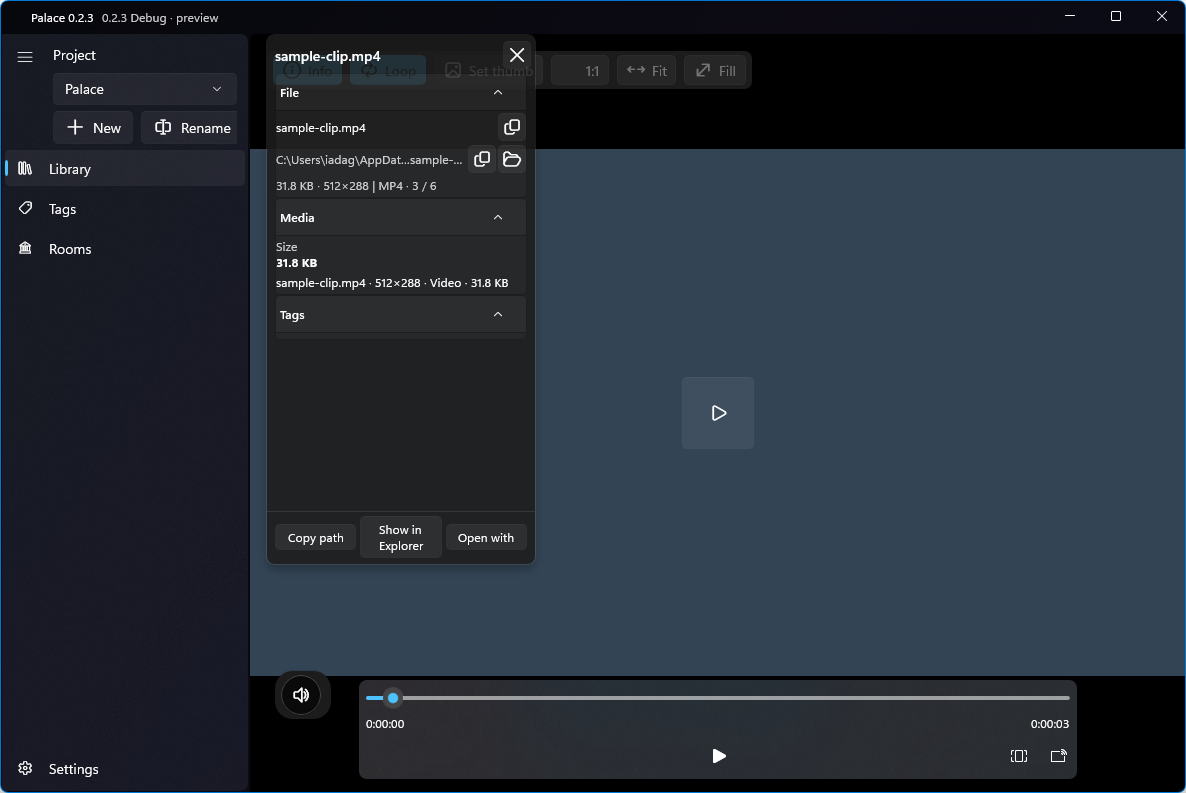
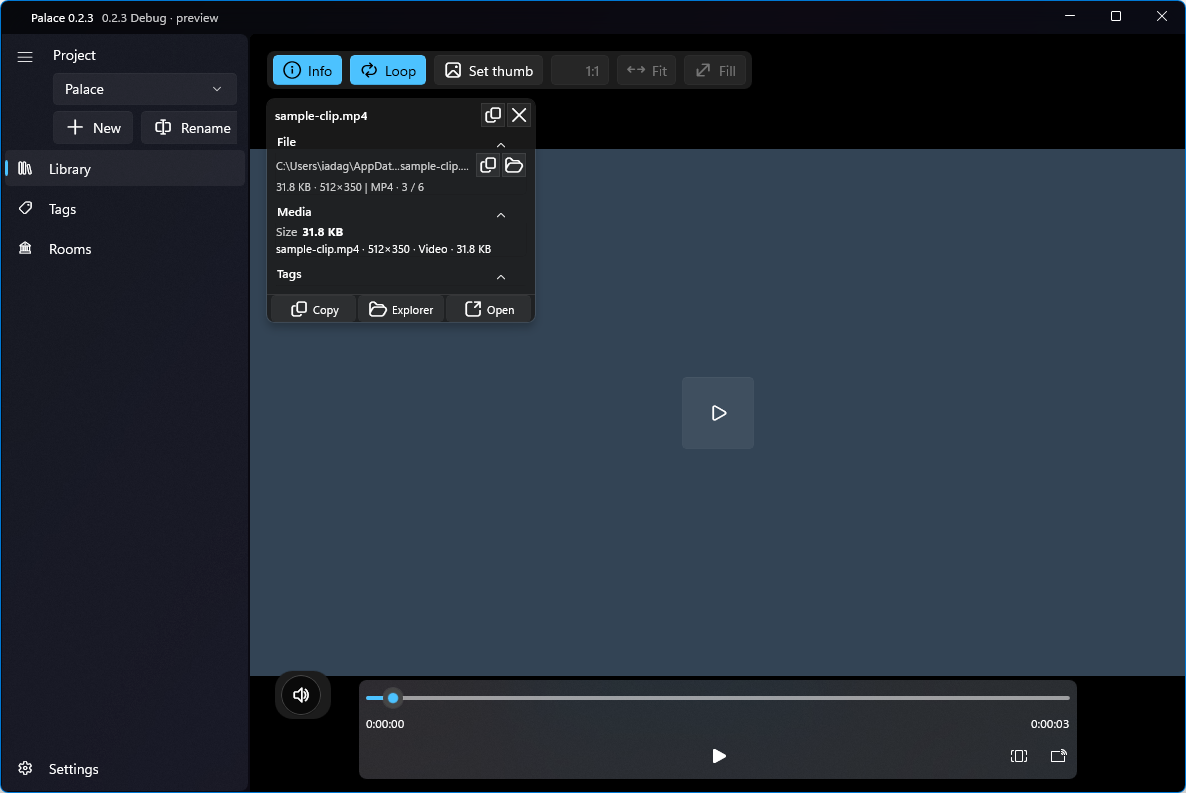
docs(_pr116): 532f21c after-open / reopen-I / reopen-CtrlD / after-video

Changed region(s): [[0.2184, 0.0303, 0.468, 0.7264]]

diff --git a/docs/_pr116/README.md b/docs/_pr116/README.md
@@ -1,12 +1,12 @@
-# PR #116 Info→Details screenshots (0.2.3)
+# PR #116 Info->Details screenshots (0.2.3)
 
-- Product tip: `6e059bc8d9ae719577d9ef61dc1f2c93004bd891`
-- Identity: `PalaceInfoDetails-116` (registered build AppxManifest only; never C20A7629)
-- Media-only branch — not for merge into main
+- Product tip: `532f21c4235199b1c5c372de99fa57c9aa59e812`
+- Identity: `PalaceInfoDetails-116` (build AppxManifest only; never C20A7629)
+- Media-only branch `docs/_pr116`
 
 | File | Caption |
 |------|---------|
-| after-white.png | After density: near-white still with Details card docked left under toolbar (Info on). |
-| after-dark.png | After density: dark still with Details open; toolbar fully visible above card. |
-| after-scroll.png | After density: Details body scrollable — Histogram/Gamut sections visible (~70% card height). |
-| after-video.png | After density: video Details Media section above scrubber; transport without maximize/full-window. |
+| after-open.png | Details open - File + Color/HDR + Histogram visible without scrolling; toolbar clear above card. |
+| reopen-I.png | After closing Details, I key reopens docked card under toolbar. |
+| reopen-CtrlD.png | After closing Details, Ctrl+D reopens docked card under toolbar. |
+| after-video.png | Video with Details open - Media section above scrubber; no maximize/full-window on transport. |
